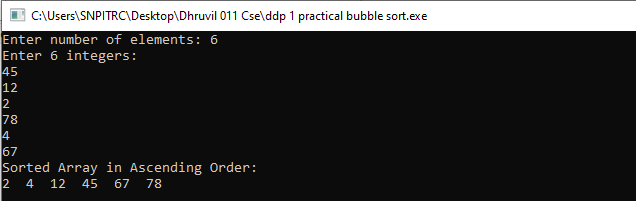
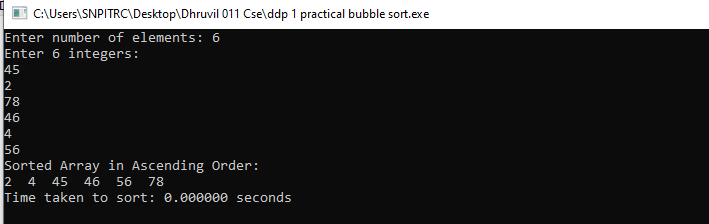
Add files via upload

Changed region(s): [[0.0, 0.0, 1.0, 1.0]]

diff --git a/ddp 1 practical merge  sort.cpp b/ddp 1 practical merge  sort.cpp
@@ -1,0 +1,73 @@
+#include <stdio.h>
+#include <time.h>
+
+// Merge two subarrays L and M into arr
+void merge(int arr[], int p, int q, int r) {
+  int n1 = q - p + 1;
+  int n2 = r - q;
+
+  int L[n1], M[n2];
+
+  for (int i = 0; i < n1; i++)
+    L[i] = arr[p + i];
+  for (int j = 0; j < n2; j++)
+    M[j] = arr[q + 1 + j];
+
+  int i = 0, j = 0, k = p;
+
+  while (i < n1 && j < n2) {
+    if (L[i] <= M[j]) {
+      arr[k++] = L[i++];
+    } else {
+      arr[k++] = M[j++];
+    }
+  }
+
+  while (i < n1) arr[k++] = L[i++];
+  while (j < n2) arr[k++] = M[j++];
+}
+
+// Divide the array into two subarrays, sort them and merge them
+void mergeSort(int arr[], int l, int r) {
+  if (l < r) {
+    int m = l + (r - l) / 2;
+    mergeSort(arr, l, m);
+    mergeSort(arr, m + 1, r);
+    merge(arr, l, m, r);
+  }
+}
+
+void printArray(int arr[], int size) {
+  for (int i = 0; i < size; i++)
+    printf("%d ", arr[i]);
+  printf("\n");
+}
+
+int main() {
+  int size;
+
+  printf("Enter number of elements: ");
+  scanf("%d", &size);
+
+  int arr[size];
+
+  printf("Enter %d integers:\n", size);
+  for (int i = 0; i < size; i++) {
+    scanf("%d", &arr[i]);
+  }
+
+  clock_t start = clock();
+
+  mergeSort(arr, 0, size - 1);
+
+  clock_t end = clock();
+
+  printf("Sorted array:\n");
+  printArray(arr, size);
+
+  double time_taken = (double)(end - start) / CLOCKS_PER_SEC;
+  printf("Time taken to sort: %f seconds\n", time_taken);
+
+  return 0;
+}
+

diff --git a/ddp 1 practical bubble sort.cpp b/ddp 1 practical bubble sort.cpp
@@ -1,4 +1,5 @@
 #include <stdio.h>
+#include <time.h>
 
 void bubbleSort(int array[], int size) {
   for (int step = 0; step < size - 1; ++step) {
@@ -25,17 +26,25 @@ int main() {
   printf("Enter number of elements: ");
   scanf("%d", &size);
 
-  int data[size];  // Array created with user-specified size
-
+  int data[size];  
   printf("Enter %d integers:\n", size);
   for (int i = 0; i < size; i++) {
-    scanf("%d", &data[i]);   // Reading integers one by one at runtime
+    scanf("%d", &data[i]);
   }
+
+  clock_t start, end;
+  start = clock();
 
   bubbleSort(data, size);
 
+  end = clock();
+
+  double time_taken = ((double)(end - start)) / CLOCKS_PER_SEC;
+
   printf("Sorted Array in Ascending Order:\n");
   printArray(data, size);
+
+  printf("Time taken to sort: %f seconds\n", time_taken);
 
   return 0;
 }
